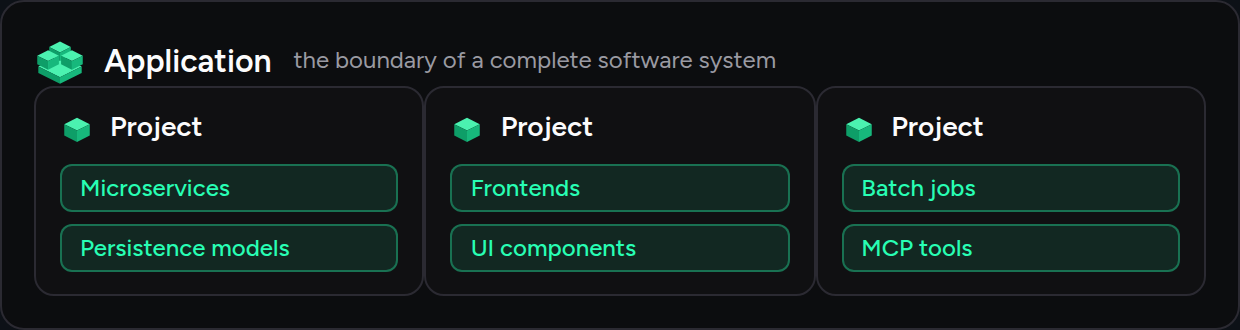
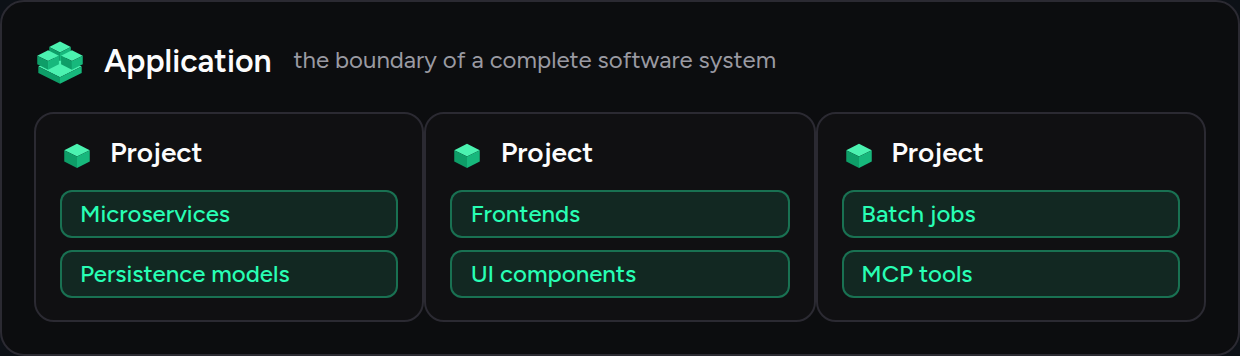
The wide Application header clears the project cards
Its sub-label sits inline in the header, where the narrow variant puts it on its
own line — and the 13px that separated the header from the cards was on
`.outer-s`, which the inline version overrides. So the wide header had no gap at
all and sat on the cards' top edge. `.outer-h-row` carries it instead.

620 x 165 becomes 620 x 178.

Claude-Session: https://claude.ai/code/session_01EvoZVi9sNowJbKd7zzzNvL

diff --git a/.github/assets/diagrams/diagrams.py b/.github/assets/diagrams/diagrams.py
@@ -238,9 +238,10 @@ def w_core_concepts(t):
         f'<div class="card-h">{glyph(17)}<span class="card-t">Project</span></div>'
         f'<div class="chips chips-col">' + ''.join(f'<span class="chip">{a}</span>' for a in arts)
         + '</div></div>' for arts in projects)
-    return (f'<div class="d" style="width:620px;height:165px">'
+    return (f'<div class="d" style="width:620px;height:178px">'
             f'<div class="outer">'
-            f'<div class="outer-h">{cluster(26)}<span class="outer-t">Application</span>'
+            f'<div class="outer-h outer-h-row">{cluster(26)}'
+            f'<span class="outer-t">Application</span>'
             f'<span class="outer-s outer-s-inline">the boundary of a complete software system</span></div>'
             f'<div class="row3 g12">{cards}</div></div></div>')
 
@@ -414,6 +415,7 @@ border-radius:8px;padding:8px 12px;background:{t['chip']};width:100%;text-align:
 {p} .card-col{{flex-direction:column;align-items:stretch;gap:10px}}
 {p} .card-col .card-h{{width:auto}}
 {p} .chips-col{{flex-direction:column;gap:6px}}
+{p} .outer-h-row{{margin-bottom:13px}}
 {p} .outer-s-inline{{margin:0 0 0 2px}}
 {p} .branch-row{{flex-direction:row;align-items:center;gap:10px;margin-left:4px;margin-bottom:-10px}}
 {p} .pill-row{{flex-direction:row;align-items:baseline;gap:9px;border-radius:999px}}
@@ -432,7 +434,7 @@ SPECS = [
     ('abstraction-layer', 'A different abstraction layer',
      (abstraction_layer, 440, 292), (w_abstraction_layer, 560, 322)),
     ('core-concepts', 'Core concepts',
-     (core_concepts, 440, 256), (w_core_concepts, 620, 165)),
+     (core_concepts, 440, 256), (w_core_concepts, 620, 178)),
     ('environments', 'CI/CD environments',
      (environments, 300, 280), (w_environments, 620, 237)),
     ('architecture', 'Architecture',
